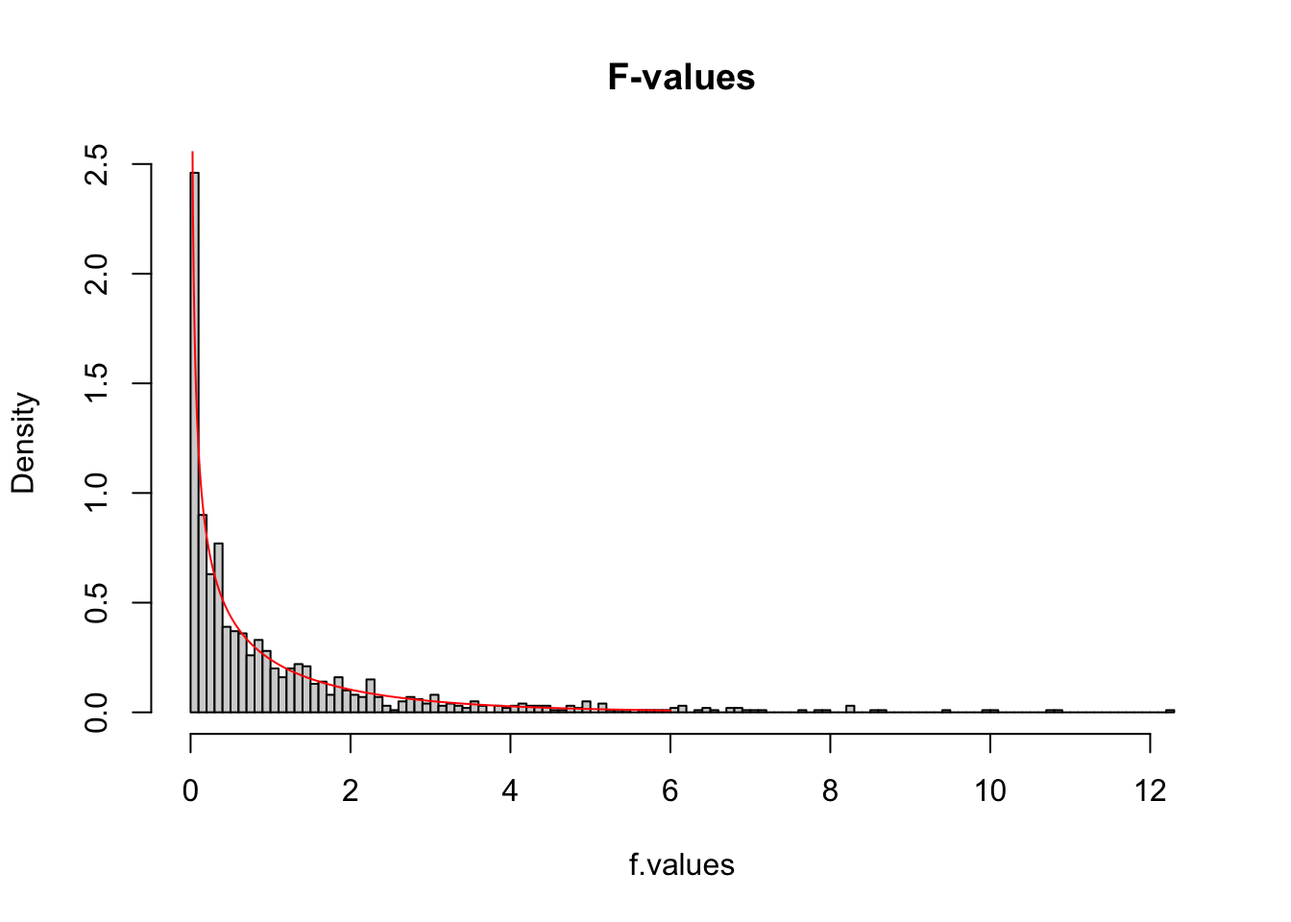
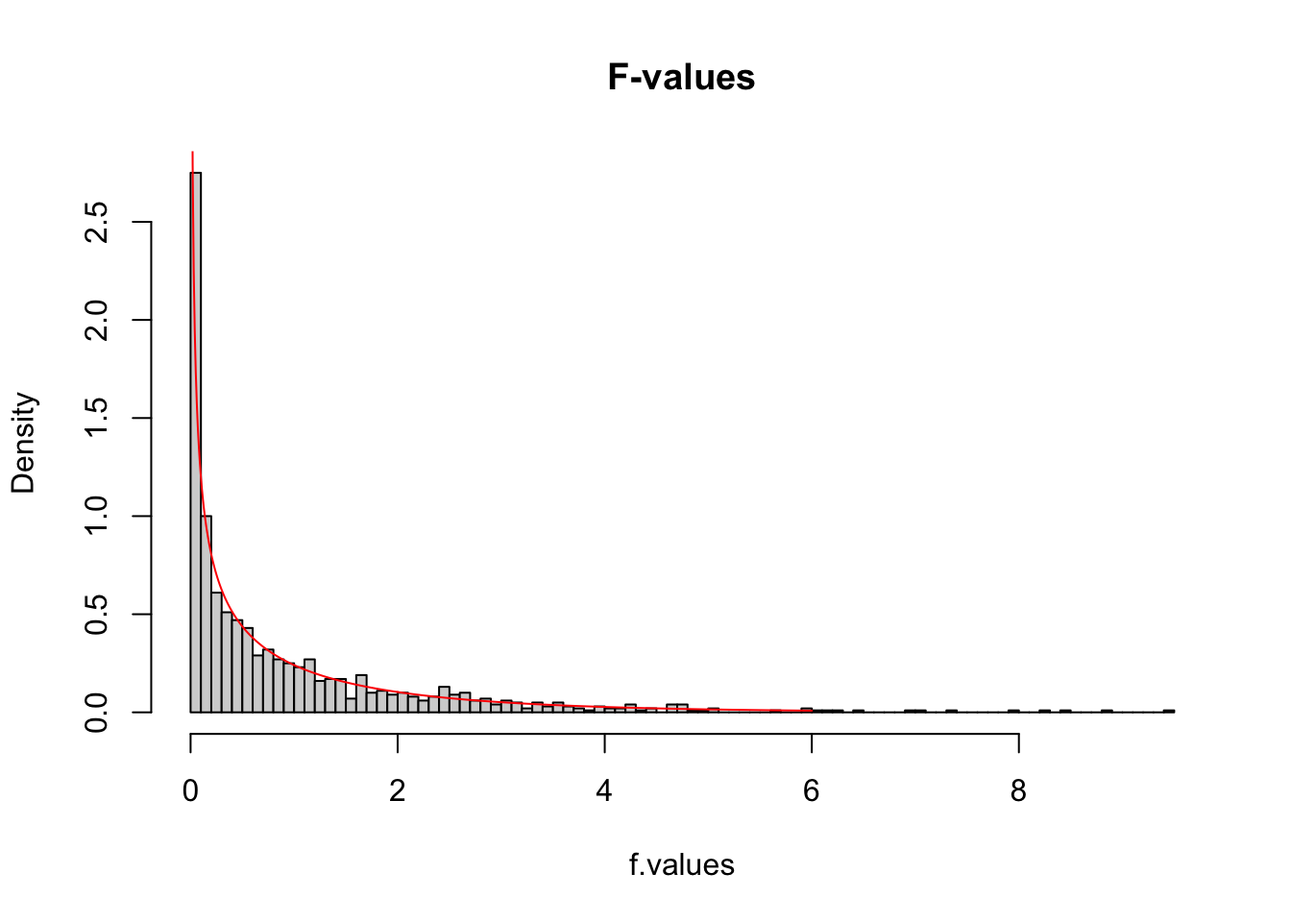
title corrected

diff --git a/courses/2020-2021_WSR_PB/f_distribution_ANOVA_non_par_testing/f_distribution_ANOVA_non_par_testing_reveal.html b/courses/2020-2021_WSR_PB/f_distribution_ANOVA_non_par_testing/f_distribution_ANOVA_non_par_testing_reveal.html
@@ -580,7 +580,7 @@ document.getElementsByTagName('head')[0].appendChild(style);
 
 <section>
     <h1 class="title">ANOVA</h1>
-  <h1 class="subtitle">F-distribution &amp; One-way independent</h1>
+  <h1 class="subtitle">F-distribution &amp; Non-parametric tests</h1>
     <h2 class="author">Klinkenberg</h2>
     <h3 class="date">30 sep 2020</h3>
 </section>
@@ -833,8 +833,8 @@ background: linear-gradient(top, #FFA500 40%, #FFA500 80%) no-repeat !important;
 <span id="cb12-2"><a href="#cb12-2"></a>data<span class="op">$</span>ranks =<span class="st"> </span><span class="kw">rank</span>(data<span class="op">$</span>depres)</span></code></pre></div>
 </section><section id="the-data" class="slide level2">
 <h2>The data</h2>
-<div id="htmlwidget-552c85f26f1aabdd099d" style="width:100%;height:auto;" class="datatables html-widget"></div>
-<script type="application/json" data-for="htmlwidget-552c85f26f1aabdd099d">{"x":{"filter":"none","data":[["1","2","3","4","5","6","7","8","9","10","11","12","13","14","15","16","17","18","19","20","21","22","23","24","25","26","27","28","29","30"],["ecstasy","ecstasy","ecstasy","ecstasy","ecstasy","ecstasy","ecstasy","ecstasy","ecstasy","ecstasy","alcohol","alcohol","alcohol","alcohol","alcohol","alcohol","alcohol","alcohol","alcohol","alcohol","control","control","control","control","control","control","control","control","control","control"],[22,22,24,25,21,24,21,23,21,23,27,23,24,24,21,26,23,24,23,24,23,22,21,22,22,25,22,22,22,23],[9.5,9.5,23.5,27.5,3,23.5,3,17,3,17,30,17,23.5,23.5,3,29,17,23.5,17,23.5,17,9.5,3,9.5,9.5,27.5,9.5,9.5,9.5,17]],"container":"<table class=\"display\">\n  <thead>\n    <tr>\n      <th> <\/th>\n      <th>factor<\/th>\n      <th>depres<\/th>\n      <th>ranks<\/th>\n    <\/tr>\n  <\/thead>\n<\/table>","options":{"iDisplayLength":7,"searching":false,"scrollY":415,"paging":[0,0.01,0.02,0.03,0.04,0.05,0.06,0.07,0.08,0.09,0.1,0.11,0.12,0.13,0.14,0.15,0.16,0.17,0.18,0.19,0.2,0.21,0.22,0.23,0.24,0.25,0.26,0.27,0.28,0.29,0.3,0.31,0.32,0.33,0.34,0.35,0.36,0.37,0.38,0.39,0.4,0.41,0.42,0.43,0.44,0.45,0.46,0.47,0.48,0.49,0.5,0.51,0.52,0.53,0.54,0.55,0.56,0.57,0.58,0.59,0.6,0.61,0.62,0.63,0.64,0.65,0.66,0.67,0.68,0.69,0.7,0.71,0.72,0.73,0.74,0.75,0.76,0.77,0.78,0.79,0.8,0.81,0.82,0.83,0.84,0.85,0.86,0.87,0.88,0.89,0.9,0.91,0.92,0.93,0.94,0.95,0.96,0.97,0.98,0.99,1,1.01,1.02,1.03,1.04,1.05,1.06,1.07,1.08,1.09,1.1,1.11,1.12,1.13,1.14,1.15,1.16,1.17,1.18,1.19,1.2,1.21,1.22,1.23,1.24,1.25,1.26,1.27,1.28,1.29,1.3,1.31,1.32,1.33,1.34,1.35,1.36,1.37,1.38,1.39,1.4,1.41,1.42,1.43,1.44,1.45,1.46,1.47,1.48,1.49,1.5,1.51,1.52,1.53,1.54,1.55,1.56,1.57,1.58,1.59,1.6,1.61,1.62,1.63,1.64,1.65,1.66,1.67,1.68,1.69,1.7,1.71,1.72,1.73,1.74,1.75,1.76,1.77,1.78,1.79,1.8,1.81,1.82,1.83,1.84,1.85,1.86,1.87,1.88,1.89,1.9,1.91,1.92,1.93,1.94,1.95,1.96,1.97,1.98,1.99,2,2.01,2.02,2.03,2.04,2.05,2.06,2.07,2.08,2.09,2.1,2.11,2.12,2.13,2.14,2.15,2.16,2.17,2.18,2.19,2.2,2.21,2.22,2.23,2.24,2.25,2.26,2.27,2.28,2.29,2.3,2.31,2.32,2.33,2.34,2.35,2.36,2.37,2.38,2.39,2.4,2.41,2.42,2.43,2.44,2.45,2.46,2.47,2.48,2.49,2.5,2.51,2.52,2.53,2.54,2.55,2.56,2.57,2.58,2.59,2.6,2.61,2.62,2.63,2.64,2.65,2.66,2.67,2.68,2.69,2.7,2.71,2.72,2.73,2.74,2.75,2.76,2.77,2.78,2.79,2.8,2.81,2.82,2.83,2.84,2.85,2.86,2.87,2.88,2.89,2.9,2.91,2.92,2.93,2.94,2.95,2.96,2.97,2.98,2.99,3,3.01,3.02,3.03,3.04,3.05,3.06,3.07,3.08,3.09,3.1,3.11,3.12,3.13,3.14,3.15,3.16,3.17,3.18,3.19,3.2,3.21,3.22,3.23,3.24,3.25,3.26,3.27,3.28,3.29,3.3,3.31,3.32,3.33,3.34,3.35,3.36,3.37,3.38,3.39,3.4,3.41,3.42,3.43,3.44,3.45,3.46,3.47,3.48,3.49,3.5,3.51,3.52,3.53,3.54,3.55,3.56,3.57,3.58,3.59,3.6,3.61,3.62,3.63,3.64,3.65,3.66,3.67,3.68,3.69,3.7,3.71,3.72,3.73,3.74,3.75,3.76,3.77,3.78,3.79,3.8,3.81,3.82,3.83,3.84,3.85,3.86,3.87,3.88,3.89,3.9,3.91,3.92,3.93,3.94,3.95,3.96,3.97,3.98,3.99,4,4.01,4.02,4.03,4.04,4.05,4.06,4.07,4.08,4.09,4.1,4.11,4.12,4.13,4.14,4.15,4.16,4.17,4.18,4.19,4.2,4.21,4.22,4.23,4.24,4.25,4.26,4.27,4.28,4.29,4.3,4.31,4.32,4.33,4.34,4.35,4.36,4.37,4.38,4.39,4.4,4.41,4.42,4.43,4.44,4.45,4.46,4.47,4.48,4.49,4.5,4.51,4.52,4.53,4.54,4.55,4.56,4.57,4.58,4.59,4.6,4.61,4.62,4.63,4.64,4.65,4.66,4.67,4.68,4.69,4.7,4.71,4.72,4.73,4.74,4.75,4.76,4.77,4.78,4.79,4.8,4.81,4.82,4.83,4.84,4.85,4.86,4.87,4.88,4.89,4.9,4.91,4.92,4.93,4.94,4.95,4.96,4.97,4.98,4.99,5,5.01,5.02,5.03,5.04,5.05,5.06,5.07,5.08,5.09,5.1,5.11,5.12,5.13,5.14,5.15,5.16,5.17,5.18,5.19,5.2,5.21,5.22,5.23,5.24,5.25,5.26,5.27,5.28,5.29,5.3,5.31,5.32,5.33,5.34,5.35,5.36,5.37,5.38,5.39,5.4,5.41,5.42,5.43,5.44,5.45,5.46,5.47,5.48,5.49,5.5,5.51,5.52,5.53,5.54,5.55,5.56,5.57,5.58,5.59,5.6,5.61,5.62,5.63,5.64,5.65,5.66,5.67,5.68,5.69,5.7,5.71,5.72,5.73,5.74,5.75,5.76,5.77,5.78,5.79,5.8,5.81,5.82,5.83,5.84,5.85,5.86,5.87,5.88,5.89,5.9,5.91,5.92,5.93,5.94,5.95,5.96,5.97,5.98,5.99,6,6.01,6.02,6.03,6.04,6.05,6.06,6.07,6.08,6.09,6.1,6.11,6.12,6.13,6.14,6.15,6.16,6.17,6.18,6.19,6.2,6.21,6.22,6.23,6.24,6.25,6.26,6.27,6.28,6.29,6.3,6.31,6.32,6.33,6.34,6.35,6.36,6.37,6.38,6.39,6.4,6.41,6.42,6.43,6.44,6.45,6.46,6.47,6.48,6.49,6.5,6.51,6.52,6.53,6.54,6.55,6.56,6.57,6.58,6.59,6.6,6.61,6.62,6.63,6.64,6.65,6.66,6.67,6.68,6.69,6.7,6.71,6.72,6.73,6.74,6.75,6.76,6.77,6.78,6.79,6.8,6.81,6.82,6.83,6.84,6.85,6.86,6.87,6.88,6.89,6.9,6.91,6.92,6.93,6.94,6.95,6.96,6.97,6.98,6.99,7,7.01,7.02,7.03,7.04,7.05,7.06,7.07,7.08,7.09,7.1,7.11,7.12,7.13,7.14,7.15,7.16,7.17,7.18,7.19,7.2,7.21,7.22,7.23,7.24,7.25,7.26,7.27,7.28,7.29,7.3,7.31,7.32,7.33,7.34,7.35,7.36,7.37,7.38,7.39,7.4,7.41,7.42,7.43,7.44,7.45,7.46,7.47,7.48,7.49,7.5,7.51,7.52,7.53,7.54,7.55,7.56,7.57,7.58,7.59,7.6,7.61,7.62,7.63,7.64,7.65,7.66,7.67,7.68,7.69,7.7,7.71,7.72,7.73,7.74,7.75,7.76,7.77,7.78,7.79,7.8,7.81,7.82,7.83,7.84,7.85,7.86,7.87,7.88,7.89,7.9,7.91,7.92,7.93,7.94,7.95,7.96,7.97,7.98,7.99,8,8.01,8.02,8.03,8.04,8.05,8.06,8.07,8.08,8.09,8.1,8.11,8.12,8.13,8.14,8.15,8.16,8.17,8.18,8.19,8.2,8.21,8.22,8.23,8.24,8.25,8.26,8.27,8.28,8.29,8.3,8.31,8.32,8.33,8.34,8.35,8.36,8.37,8.38,8.39,8.4,8.41,8.42,8.43,8.44,8.45,8.46,8.47,8.48,8.49,8.5,8.51,8.52,8.53,8.54,8.55,8.56,8.57,8.58,8.59,8.6,8.61,8.62,8.63,8.64,8.65,8.66,8.67,8.68,8.69,8.7,8.71,8.72,8.73,8.74,8.75,8.76,8.77,8.78,8.79,8.8,8.81,8.82,8.83,8.84,8.85,8.86,8.87,8.88,8.89,8.9,8.91,8.92,8.93,8.94,8.95,8.96,8.97,8.98,8.99,9,9.01,9.02,9.03,9.04,9.05,9.06,9.07,9.08,9.09,9.1,9.11,9.12,9.13,9.14,9.15,9.16,9.17,9.18,9.19,9.2,9.21,9.22,9.23,9.24,9.25,9.26,9.27,9.28,9.29,9.3,9.31,9.32,9.33,9.34,9.35,9.36,9.37,9.38,9.39,9.4,9.41,9.42,9.43,9.44,9.45,9.46,9.47,9.48,9.49,9.5,9.51,9.52,9.53,9.54,9.55,9.56,9.57,9.58,9.59,9.6,9.61,9.62,9.63,9.64,9.65,9.66,9.67,9.68,9.69,9.7,9.71,9.72,9.73,9.74,9.75,9.76,9.77,9.78,9.79,9.8,9.81,9.82,9.83,9.84,9.85,9.86,9.87,9.88,9.89,9.9,9.91,9.92,9.93,9.94,9.95,9.96,9.97,9.98,9.99,10],"info":[0,0.01,0.02,0.03,0.04,0.05,0.06,0.07,0.08,0.09,0.1,0.11,0.12,0.13,0.14,0.15,0.16,0.17,0.18,0.19,0.2,0.21,0.22,0.23,0.24,0.25,0.26,0.27,0.28,0.29,0.3,0.31,0.32,0.33,0.34,0.35,0.36,0.37,0.38,0.39,0.4,0.41,0.42,0.43,0.44,0.45,0.46,0.47,0.48,0.49,0.5,0.51,0.52,0.53,0.54,0.55,0.56,0.57,0.58,0.59,0.6,0.61,0.62,0.63,0.64,0.65,0.66,0.67,0.68,0.69,0.7,0.71,0.72,0.73,0.74,0.75,0.76,0.77,0.78,0.79,0.8,0.81,0.82,0.83,0.84,0.85,0.86,0.87,0.88,0.89,0.9,0.91,0.92,0.93,0.94,0.95,0.96,0.97,0.98,0.99,1,1.01,1.02,1.03,1.04,1.05,1.06,1.07,1.08,1.09,1.1,1.11,1.12,1.13,1.14,1.15,1.16,1.17,1.18,1.19,1.2,1.21,1.22,1.23,1.24,1.25,1.26,1.27,1.28,1.29,1.3,1.31,1.32,1.33,1.34,1.35,1.36,1.37,1.38,1.39,1.4,1.41,1.42,1.43,1.44,1.45,1.46,1.47,1.48,1.49,1.5,1.51,1.52,1.53,1.54,1.55,1.56,1.57,1.58,1.59,1.6,1.61,1.62,1.63,1.64,1.65,1.66,1.67,1.68,1.69,1.7,1.71,1.72,1.73,1.74,1.75,1.76,1.77,1.78,1.79,1.8,1.81,1.82,1.83,1.84,1.85,1.86,1.87,1.88,1.89,1.9,1.91,1.92,1.93,1.94,1.95,1.96,1.97,1.98,1.99,2,2.01,2.02,2.03,2.04,2.05,2.06,2.07,2.08,2.09,2.1,2.11,2.12,2.13,2.14,2.15,2.16,2.17,2.18,2.19,2.2,2.21,2.22,2.23,2.24,2.25,2.26,2.27,2.28,2.29,2.3,2.31,2.32,2.33,2.34,2.35,2.36,2.37,2.38,2.39,2.4,2.41,2.42,2.43,2.44,2.45,2.46,2.47,2.48,2.49,2.5,2.51,2.52,2.53,2.54,2.55,2.56,2.57,2.58,2.59,2.6,2.61,2.62,2.63,2.64,2.65,2.66,2.67,2.68,2.69,2.7,2.71,2.72,2.73,2.74,2.75,2.76,2.77,2.78,2.79,2.8,2.81,2.82,2.83,2.84,2.85,2.86,2.87,2.88,2.89,2.9,2.91,2.92,2.93,2.94,2.95,2.96,2.97,2.98,2.99,3,3.01,3.02,3.03,3.04,3.05,3.06,3.07,3.08,3.09,3.1,3.11,3.12,3.13,3.14,3.15,3.16,3.17,3.18,3.19,3.2,3.21,3.22,3.23,3.24,3.25,3.26,3.27,3.28,3.29,3.3,3.31,3.32,3.33,3.34,3.35,3.36,3.37,3.38,3.39,3.4,3.41,3.42,3.43,3.44,3.45,3.46,3.47,3.48,3.49,3.5,3.51,3.52,3.53,3.54,3.55,3.56,3.57,3.58,3.59,3.6,3.61,3.62,3.63,3.64,3.65,3.66,3.67,3.68,3.69,3.7,3.71,3.72,3.73,3.74,3.75,3.76,3.77,3.78,3.79,3.8,3.81,3.82,3.83,3.84,3.85,3.86,3.87,3.88,3.89,3.9,3.91,3.92,3.93,3.94,3.95,3.96,3.97,3.98,3.99,4,4.01,4.02,4.03,4.04,4.05,4.06,4.07,4.08,4.09,4.1,4.11,4.12,4.13,4.14,4.15,4.16,4.17,4.18,4.19,4.2,4.21,4.22,4.23,4.24,4.25,4.26,4.27,4.28,4.29,4.3,4.31,4.32,4.33,4.34,4.35,4.36,4.37,4.38,4.39,4.4,4.41,4.42,4.43,4.44,4.45,4.46,4.47,4.48,4.49,4.5,4.51,4.52,4.53,4.54,4.55,4.56,4.57,4.58,4.59,4.6,4.61,4.62,4.63,4.64,4.65,4.66,4.67,4.68,4.69,4.7,4.71,4.72,4.73,4.74,4.75,4.76,4.77,4.78,4.79,4.8,4.81,4.82,4.83,4.84,4.85,4.86,4.87,4.88,4.89,4.9,4.91,4.92,4.93,4.94,4.95,4.96,4.97,4.98,4.99,5,5.01,5.02,5.03,5.04,5.05,5.06,5.07,5.08,5.09,5.1,5.11,5.12,5.13,5.14,5.15,5.16,5.17,5.18,5.19,5.2,5.21,5.22,5.23,5.24,5.25,5.26,5.27,5.28,5.29,5.3,5.31,5.32,5.33,5.34,5.35,5.36,5.37,5.38,5.39,5.4,5.41,5.42,5.43,5.44,5.45,5.46,5.47,5.48,5.49,5.5,5.51,5.52,5.53,5.54,5.55,5.56,5.57,5.58,5.59,5.6,5.61,5.62,5.63,5.64,5.65,5.66,5.67,5.68,5.69,5.7,5.71,5.72,5.73,5.74,5.75,5.76,5.77,5.78,5.79,5.8,5.81,5.82,5.83,5.84,5.85,5.86,5.87,5.88,5.89,5.9,5.91,5.92,5.93,5.94,5.95,5.96,5.97,5.98,5.99,6,6.01,6.02,6.03,6.04,6.05,6.06,6.07,6.08,6.09,6.1,6.11,6.12,6.13,6.14,6.15,6.16,6.17,6.18,6.19,6.2,6.21,6.22,6.23,6.24,6.25,6.26,6.27,6.28,6.29,6.3,6.31,6.32,6.33,6.34,6.35,6.36,6.37,6.38,6.39,6.4,6.41,6.42,6.43,6.44,6.45,6.46,6.47,6.48,6.49,6.5,6.51,6.52,6.53,6.54,6.55,6.56,6.57,6.58,6.59,6.6,6.61,6.62,6.63,6.64,6.65,6.66,6.67,6.68,6.69,6.7,6.71,6.72,6.73,6.74,6.75,6.76,6.77,6.78,6.79,6.8,6.81,6.82,6.83,6.84,6.85,6.86,6.87,6.88,6.89,6.9,6.91,6.92,6.93,6.94,6.95,6.96,6.97,6.98,6.99,7,7.01,7.02,7.03,7.04,7.05,7.06,7.07,7.08,7.09,7.1,7.11,7.12,7.13,7.14,7.15,7.16,7.17,7.18,7.19,7.2,7.21,7.22,7.23,7.24,7.25,7.26,7.27,7.28,7.29,7.3,7.31,7.32,7.33,7.34,7.35,7.36,7.37,7.38,7.39,7.4,7.41,7.42,7.43,7.44,7.45,7.46,7.47,7.48,7.49,7.5,7.51,7.52,7.53,7.54,7.55,7.56,7.57,7.58,7.59,7.6,7.61,7.62,7.63,7.64,7.65,7.66,7.67,7.68,7.69,7.7,7.71,7.72,7.73,7.74,7.75,7.76,7.77,7.78,7.79,7.8,7.81,7.82,7.83,7.84,7.85,7.86,7.87,7.88,7.89,7.9,7.91,7.92,7.93,7.94,7.95,7.96,7.97,7.98,7.99,8,8.01,8.02,8.03,8.04,8.05,8.06,8.07,8.08,8.09,8.1,8.11,8.12,8.13,8.14,8.15,8.16,8.17,8.18,8.19,8.2,8.21,8.22,8.23,8.24,8.25,8.26,8.27,8.28,8.29,8.3,8.31,8.32,8.33,8.34,8.35,8.36,8.37,8.38,8.39,8.4,8.41,8.42,8.43,8.44,8.45,8.46,8.47,8.48,8.49,8.5,8.51,8.52,8.53,8.54,8.55,8.56,8.57,8.58,8.59,8.6,8.61,8.62,8.63,8.64,8.65,8.66,8.67,8.68,8.69,8.7,8.71,8.72,8.73,8.74,8.75,8.76,8.77,8.78,8.79,8.8,8.81,8.82,8.83,8.84,8.85,8.86,8.87,8.88,8.89,8.9,8.91,8.92,8.93,8.94,8.95,8.96,8.97,8.98,8.99,9,9.01,9.02,9.03,9.04,9.05,9.06,9.07,9.08,9.09,9.1,9.11,9.12,9.13,9.14,9.15,9.16,9.17,9.18,9.19,9.2,9.21,9.22,9.23,9.24,9.25,9.26,9.27,9.28,9.29,9.3,9.31,9.32,9.33,9.34,9.35,9.36,9.37,9.38,9.39,9.4,9.41,9.42,9.43,9.44,9.45,9.46,9.47,9.48,9.49,9.5,9.51,9.52,9.53,9.54,9.55,9.56,9.57,9.58,9.59,9.6,9.61,9.62,9.63,9.64,9.65,9.66,9.67,9.68,9.69,9.7,9.71,9.72,9.73,9.74,9.75,9.76,9.77,9.78,9.79,9.8,9.81,9.82,9.83,9.84,9.85,9.86,9.87,9.88,9.89,9.9,9.91,9.92,9.93,9.94,9.95,9.96,9.97,9.98,9.99,10],"columnDefs":[{"className":"dt-right","targets":[2,3]},{"orderable":false,"targets":0}],"order":[],"autoWidth":false,"orderClasses":false}},"evals":[],"jsHooks":[]}</script>
+<div id="htmlwidget-ece20a5050a8a65ae7e8" style="width:100%;height:auto;" class="datatables html-widget"></div>
+<script type="application/json" data-for="htmlwidget-ece20a5050a8a65ae7e8">{"x":{"filter":"none","data":[["1","2","3","4","5","6","7","8","9","10","11","12","13","14","15","16","17","18","19","20","21","22","23","24","25","26","27","28","29","30"],["ecstasy","ecstasy","ecstasy","ecstasy","ecstasy","ecstasy","ecstasy","ecstasy","ecstasy","ecstasy","alcohol","alcohol","alcohol","alcohol","alcohol","alcohol","alcohol","alcohol","alcohol","alcohol","control","control","control","control","control","control","control","control","control","control"],[22,22,24,25,21,24,21,23,21,23,27,23,24,24,21,26,23,24,23,24,23,22,21,22,22,25,22,22,22,23],[9.5,9.5,23.5,27.5,3,23.5,3,17,3,17,30,17,23.5,23.5,3,29,17,23.5,17,23.5,17,9.5,3,9.5,9.5,27.5,9.5,9.5,9.5,17]],"container":"<table class=\"display\">\n  <thead>\n    <tr>\n      <th> <\/th>\n      <th>factor<\/th>\n      <th>depres<\/th>\n      <th>ranks<\/th>\n    <\/tr>\n  <\/thead>\n<\/table>","options":{"iDisplayLength":7,"searching":false,"scrollY":415,"paging":[0,0.01,0.02,0.03,0.04,0.05,0.06,0.07,0.08,0.09,0.1,0.11,0.12,0.13,0.14,0.15,0.16,0.17,0.18,0.19,0.2,0.21,0.22,0.23,0.24,0.25,0.26,0.27,0.28,0.29,0.3,0.31,0.32,0.33,0.34,0.35,0.36,0.37,0.38,0.39,0.4,0.41,0.42,0.43,0.44,0.45,0.46,0.47,0.48,0.49,0.5,0.51,0.52,0.53,0.54,0.55,0.56,0.57,0.58,0.59,0.6,0.61,0.62,0.63,0.64,0.65,0.66,0.67,0.68,0.69,0.7,0.71,0.72,0.73,0.74,0.75,0.76,0.77,0.78,0.79,0.8,0.81,0.82,0.83,0.84,0.85,0.86,0.87,0.88,0.89,0.9,0.91,0.92,0.93,0.94,0.95,0.96,0.97,0.98,0.99,1,1.01,1.02,1.03,1.04,1.05,1.06,1.07,1.08,1.09,1.1,1.11,1.12,1.13,1.14,1.15,1.16,1.17,1.18,1.19,1.2,1.21,1.22,1.23,1.24,1.25,1.26,1.27,1.28,1.29,1.3,1.31,1.32,1.33,1.34,1.35,1.36,1.37,1.38,1.39,1.4,1.41,1.42,1.43,1.44,1.45,1.46,1.47,1.48,1.49,1.5,1.51,1.52,1.53,1.54,1.55,1.56,1.57,1.58,1.59,1.6,1.61,1.62,1.63,1.64,1.65,1.66,1.67,1.68,1.69,1.7,1.71,1.72,1.73,1.74,1.75,1.76,1.77,1.78,1.79,1.8,1.81,1.82,1.83,1.84,1.85,1.86,1.87,1.88,1.89,1.9,1.91,1.92,1.93,1.94,1.95,1.96,1.97,1.98,1.99,2,2.01,2.02,2.03,2.04,2.05,2.06,2.07,2.08,2.09,2.1,2.11,2.12,2.13,2.14,2.15,2.16,2.17,2.18,2.19,2.2,2.21,2.22,2.23,2.24,2.25,2.26,2.27,2.28,2.29,2.3,2.31,2.32,2.33,2.34,2.35,2.36,2.37,2.38,2.39,2.4,2.41,2.42,2.43,2.44,2.45,2.46,2.47,2.48,2.49,2.5,2.51,2.52,2.53,2.54,2.55,2.56,2.57,2.58,2.59,2.6,2.61,2.62,2.63,2.64,2.65,2.66,2.67,2.68,2.69,2.7,2.71,2.72,2.73,2.74,2.75,2.76,2.77,2.78,2.79,2.8,2.81,2.82,2.83,2.84,2.85,2.86,2.87,2.88,2.89,2.9,2.91,2.92,2.93,2.94,2.95,2.96,2.97,2.98,2.99,3,3.01,3.02,3.03,3.04,3.05,3.06,3.07,3.08,3.09,3.1,3.11,3.12,3.13,3.14,3.15,3.16,3.17,3.18,3.19,3.2,3.21,3.22,3.23,3.24,3.25,3.26,3.27,3.28,3.29,3.3,3.31,3.32,3.33,3.34,3.35,3.36,3.37,3.38,3.39,3.4,3.41,3.42,3.43,3.44,3.45,3.46,3.47,3.48,3.49,3.5,3.51,3.52,3.53,3.54,3.55,3.56,3.57,3.58,3.59,3.6,3.61,3.62,3.63,3.64,3.65,3.66,3.67,3.68,3.69,3.7,3.71,3.72,3.73,3.74,3.75,3.76,3.77,3.78,3.79,3.8,3.81,3.82,3.83,3.84,3.85,3.86,3.87,3.88,3.89,3.9,3.91,3.92,3.93,3.94,3.95,3.96,3.97,3.98,3.99,4,4.01,4.02,4.03,4.04,4.05,4.06,4.07,4.08,4.09,4.1,4.11,4.12,4.13,4.14,4.15,4.16,4.17,4.18,4.19,4.2,4.21,4.22,4.23,4.24,4.25,4.26,4.27,4.28,4.29,4.3,4.31,4.32,4.33,4.34,4.35,4.36,4.37,4.38,4.39,4.4,4.41,4.42,4.43,4.44,4.45,4.46,4.47,4.48,4.49,4.5,4.51,4.52,4.53,4.54,4.55,4.56,4.57,4.58,4.59,4.6,4.61,4.62,4.63,4.64,4.65,4.66,4.67,4.68,4.69,4.7,4.71,4.72,4.73,4.74,4.75,4.76,4.77,4.78,4.79,4.8,4.81,4.82,4.83,4.84,4.85,4.86,4.87,4.88,4.89,4.9,4.91,4.92,4.93,4.94,4.95,4.96,4.97,4.98,4.99,5,5.01,5.02,5.03,5.04,5.05,5.06,5.07,5.08,5.09,5.1,5.11,5.12,5.13,5.14,5.15,5.16,5.17,5.18,5.19,5.2,5.21,5.22,5.23,5.24,5.25,5.26,5.27,5.28,5.29,5.3,5.31,5.32,5.33,5.34,5.35,5.36,5.37,5.38,5.39,5.4,5.41,5.42,5.43,5.44,5.45,5.46,5.47,5.48,5.49,5.5,5.51,5.52,5.53,5.54,5.55,5.56,5.57,5.58,5.59,5.6,5.61,5.62,5.63,5.64,5.65,5.66,5.67,5.68,5.69,5.7,5.71,5.72,5.73,5.74,5.75,5.76,5.77,5.78,5.79,5.8,5.81,5.82,5.83,5.84,5.85,5.86,5.87,5.88,5.89,5.9,5.91,5.92,5.93,5.94,5.95,5.96,5.97,5.98,5.99,6,6.01,6.02,6.03,6.04,6.05,6.06,6.07,6.08,6.09,6.1,6.11,6.12,6.13,6.14,6.15,6.16,6.17,6.18,6.19,6.2,6.21,6.22,6.23,6.24,6.25,6.26,6.27,6.28,6.29,6.3,6.31,6.32,6.33,6.34,6.35,6.36,6.37,6.38,6.39,6.4,6.41,6.42,6.43,6.44,6.45,6.46,6.47,6.48,6.49,6.5,6.51,6.52,6.53,6.54,6.55,6.56,6.57,6.58,6.59,6.6,6.61,6.62,6.63,6.64,6.65,6.66,6.67,6.68,6.69,6.7,6.71,6.72,6.73,6.74,6.75,6.76,6.77,6.78,6.79,6.8,6.81,6.82,6.83,6.84,6.85,6.86,6.87,6.88,6.89,6.9,6.91,6.92,6.93,6.94,6.95,6.96,6.97,6.98,6.99,7,7.01,7.02,7.03,7.04,7.05,7.06,7.07,7.08,7.09,7.1,7.11,7.12,7.13,7.14,7.15,7.16,7.17,7.18,7.19,7.2,7.21,7.22,7.23,7.24,7.25,7.26,7.27,7.28,7.29,7.3,7.31,7.32,7.33,7.34,7.35,7.36,7.37,7.38,7.39,7.4,7.41,7.42,7.43,7.44,7.45,7.46,7.47,7.48,7.49,7.5,7.51,7.52,7.53,7.54,7.55,7.56,7.57,7.58,7.59,7.6,7.61,7.62,7.63,7.64,7.65,7.66,7.67,7.68,7.69,7.7,7.71,7.72,7.73,7.74,7.75,7.76,7.77,7.78,7.79,7.8,7.81,7.82,7.83,7.84,7.85,7.86,7.87,7.88,7.89,7.9,7.91,7.92,7.93,7.94,7.95,7.96,7.97,7.98,7.99,8,8.01,8.02,8.03,8.04,8.05,8.06,8.07,8.08,8.09,8.1,8.11,8.12,8.13,8.14,8.15,8.16,8.17,8.18,8.19,8.2,8.21,8.22,8.23,8.24,8.25,8.26,8.27,8.28,8.29,8.3,8.31,8.32,8.33,8.34,8.35,8.36,8.37,8.38,8.39,8.4,8.41,8.42,8.43,8.44,8.45,8.46,8.47,8.48,8.49,8.5,8.51,8.52,8.53,8.54,8.55,8.56,8.57,8.58,8.59,8.6,8.61,8.62,8.63,8.64,8.65,8.66,8.67,8.68,8.69,8.7,8.71,8.72,8.73,8.74,8.75,8.76,8.77,8.78,8.79,8.8,8.81,8.82,8.83,8.84,8.85,8.86,8.87,8.88,8.89,8.9,8.91,8.92,8.93,8.94,8.95,8.96,8.97,8.98,8.99,9,9.01,9.02,9.03,9.04,9.05,9.06,9.07,9.08,9.09,9.1,9.11,9.12,9.13,9.14,9.15,9.16,9.17,9.18,9.19,9.2,9.21,9.22,9.23,9.24,9.25,9.26,9.27,9.28,9.29,9.3,9.31,9.32,9.33,9.34,9.35,9.36,9.37,9.38,9.39,9.4,9.41,9.42,9.43,9.44,9.45,9.46,9.47,9.48,9.49,9.5,9.51,9.52,9.53,9.54,9.55,9.56,9.57,9.58,9.59,9.6,9.61,9.62,9.63,9.64,9.65,9.66,9.67,9.68,9.69,9.7,9.71,9.72,9.73,9.74,9.75,9.76,9.77,9.78,9.79,9.8,9.81,9.82,9.83,9.84,9.85,9.86,9.87,9.88,9.89,9.9,9.91,9.92,9.93,9.94,9.95,9.96,9.97,9.98,9.99,10],"info":[0,0.01,0.02,0.03,0.04,0.05,0.06,0.07,0.08,0.09,0.1,0.11,0.12,0.13,0.14,0.15,0.16,0.17,0.18,0.19,0.2,0.21,0.22,0.23,0.24,0.25,0.26,0.27,0.28,0.29,0.3,0.31,0.32,0.33,0.34,0.35,0.36,0.37,0.38,0.39,0.4,0.41,0.42,0.43,0.44,0.45,0.46,0.47,0.48,0.49,0.5,0.51,0.52,0.53,0.54,0.55,0.56,0.57,0.58,0.59,0.6,0.61,0.62,0.63,0.64,0.65,0.66,0.67,0.68,0.69,0.7,0.71,0.72,0.73,0.74,0.75,0.76,0.77,0.78,0.79,0.8,0.81,0.82,0.83,0.84,0.85,0.86,0.87,0.88,0.89,0.9,0.91,0.92,0.93,0.94,0.95,0.96,0.97,0.98,0.99,1,1.01,1.02,1.03,1.04,1.05,1.06,1.07,1.08,1.09,1.1,1.11,1.12,1.13,1.14,1.15,1.16,1.17,1.18,1.19,1.2,1.21,1.22,1.23,1.24,1.25,1.26,1.27,1.28,1.29,1.3,1.31,1.32,1.33,1.34,1.35,1.36,1.37,1.38,1.39,1.4,1.41,1.42,1.43,1.44,1.45,1.46,1.47,1.48,1.49,1.5,1.51,1.52,1.53,1.54,1.55,1.56,1.57,1.58,1.59,1.6,1.61,1.62,1.63,1.64,1.65,1.66,1.67,1.68,1.69,1.7,1.71,1.72,1.73,1.74,1.75,1.76,1.77,1.78,1.79,1.8,1.81,1.82,1.83,1.84,1.85,1.86,1.87,1.88,1.89,1.9,1.91,1.92,1.93,1.94,1.95,1.96,1.97,1.98,1.99,2,2.01,2.02,2.03,2.04,2.05,2.06,2.07,2.08,2.09,2.1,2.11,2.12,2.13,2.14,2.15,2.16,2.17,2.18,2.19,2.2,2.21,2.22,2.23,2.24,2.25,2.26,2.27,2.28,2.29,2.3,2.31,2.32,2.33,2.34,2.35,2.36,2.37,2.38,2.39,2.4,2.41,2.42,2.43,2.44,2.45,2.46,2.47,2.48,2.49,2.5,2.51,2.52,2.53,2.54,2.55,2.56,2.57,2.58,2.59,2.6,2.61,2.62,2.63,2.64,2.65,2.66,2.67,2.68,2.69,2.7,2.71,2.72,2.73,2.74,2.75,2.76,2.77,2.78,2.79,2.8,2.81,2.82,2.83,2.84,2.85,2.86,2.87,2.88,2.89,2.9,2.91,2.92,2.93,2.94,2.95,2.96,2.97,2.98,2.99,3,3.01,3.02,3.03,3.04,3.05,3.06,3.07,3.08,3.09,3.1,3.11,3.12,3.13,3.14,3.15,3.16,3.17,3.18,3.19,3.2,3.21,3.22,3.23,3.24,3.25,3.26,3.27,3.28,3.29,3.3,3.31,3.32,3.33,3.34,3.35,3.36,3.37,3.38,3.39,3.4,3.41,3.42,3.43,3.44,3.45,3.46,3.47,3.48,3.49,3.5,3.51,3.52,3.53,3.54,3.55,3.56,3.57,3.58,3.59,3.6,3.61,3.62,3.63,3.64,3.65,3.66,3.67,3.68,3.69,3.7,3.71,3.72,3.73,3.74,3.75,3.76,3.77,3.78,3.79,3.8,3.81,3.82,3.83,3.84,3.85,3.86,3.87,3.88,3.89,3.9,3.91,3.92,3.93,3.94,3.95,3.96,3.97,3.98,3.99,4,4.01,4.02,4.03,4.04,4.05,4.06,4.07,4.08,4.09,4.1,4.11,4.12,4.13,4.14,4.15,4.16,4.17,4.18,4.19,4.2,4.21,4.22,4.23,4.24,4.25,4.26,4.27,4.28,4.29,4.3,4.31,4.32,4.33,4.34,4.35,4.36,4.37,4.38,4.39,4.4,4.41,4.42,4.43,4.44,4.45,4.46,4.47,4.48,4.49,4.5,4.51,4.52,4.53,4.54,4.55,4.56,4.57,4.58,4.59,4.6,4.61,4.62,4.63,4.64,4.65,4.66,4.67,4.68,4.69,4.7,4.71,4.72,4.73,4.74,4.75,4.76,4.77,4.78,4.79,4.8,4.81,4.82,4.83,4.84,4.85,4.86,4.87,4.88,4.89,4.9,4.91,4.92,4.93,4.94,4.95,4.96,4.97,4.98,4.99,5,5.01,5.02,5.03,5.04,5.05,5.06,5.07,5.08,5.09,5.1,5.11,5.12,5.13,5.14,5.15,5.16,5.17,5.18,5.19,5.2,5.21,5.22,5.23,5.24,5.25,5.26,5.27,5.28,5.29,5.3,5.31,5.32,5.33,5.34,5.35,5.36,5.37,5.38,5.39,5.4,5.41,5.42,5.43,5.44,5.45,5.46,5.47,5.48,5.49,5.5,5.51,5.52,5.53,5.54,5.55,5.56,5.57,5.58,5.59,5.6,5.61,5.62,5.63,5.64,5.65,5.66,5.67,5.68,5.69,5.7,5.71,5.72,5.73,5.74,5.75,5.76,5.77,5.78,5.79,5.8,5.81,5.82,5.83,5.84,5.85,5.86,5.87,5.88,5.89,5.9,5.91,5.92,5.93,5.94,5.95,5.96,5.97,5.98,5.99,6,6.01,6.02,6.03,6.04,6.05,6.06,6.07,6.08,6.09,6.1,6.11,6.12,6.13,6.14,6.15,6.16,6.17,6.18,6.19,6.2,6.21,6.22,6.23,6.24,6.25,6.26,6.27,6.28,6.29,6.3,6.31,6.32,6.33,6.34,6.35,6.36,6.37,6.38,6.39,6.4,6.41,6.42,6.43,6.44,6.45,6.46,6.47,6.48,6.49,6.5,6.51,6.52,6.53,6.54,6.55,6.56,6.57,6.58,6.59,6.6,6.61,6.62,6.63,6.64,6.65,6.66,6.67,6.68,6.69,6.7,6.71,6.72,6.73,6.74,6.75,6.76,6.77,6.78,6.79,6.8,6.81,6.82,6.83,6.84,6.85,6.86,6.87,6.88,6.89,6.9,6.91,6.92,6.93,6.94,6.95,6.96,6.97,6.98,6.99,7,7.01,7.02,7.03,7.04,7.05,7.06,7.07,7.08,7.09,7.1,7.11,7.12,7.13,7.14,7.15,7.16,7.17,7.18,7.19,7.2,7.21,7.22,7.23,7.24,7.25,7.26,7.27,7.28,7.29,7.3,7.31,7.32,7.33,7.34,7.35,7.36,7.37,7.38,7.39,7.4,7.41,7.42,7.43,7.44,7.45,7.46,7.47,7.48,7.49,7.5,7.51,7.52,7.53,7.54,7.55,7.56,7.57,7.58,7.59,7.6,7.61,7.62,7.63,7.64,7.65,7.66,7.67,7.68,7.69,7.7,7.71,7.72,7.73,7.74,7.75,7.76,7.77,7.78,7.79,7.8,7.81,7.82,7.83,7.84,7.85,7.86,7.87,7.88,7.89,7.9,7.91,7.92,7.93,7.94,7.95,7.96,7.97,7.98,7.99,8,8.01,8.02,8.03,8.04,8.05,8.06,8.07,8.08,8.09,8.1,8.11,8.12,8.13,8.14,8.15,8.16,8.17,8.18,8.19,8.2,8.21,8.22,8.23,8.24,8.25,8.26,8.27,8.28,8.29,8.3,8.31,8.32,8.33,8.34,8.35,8.36,8.37,8.38,8.39,8.4,8.41,8.42,8.43,8.44,8.45,8.46,8.47,8.48,8.49,8.5,8.51,8.52,8.53,8.54,8.55,8.56,8.57,8.58,8.59,8.6,8.61,8.62,8.63,8.64,8.65,8.66,8.67,8.68,8.69,8.7,8.71,8.72,8.73,8.74,8.75,8.76,8.77,8.78,8.79,8.8,8.81,8.82,8.83,8.84,8.85,8.86,8.87,8.88,8.89,8.9,8.91,8.92,8.93,8.94,8.95,8.96,8.97,8.98,8.99,9,9.01,9.02,9.03,9.04,9.05,9.06,9.07,9.08,9.09,9.1,9.11,9.12,9.13,9.14,9.15,9.16,9.17,9.18,9.19,9.2,9.21,9.22,9.23,9.24,9.25,9.26,9.27,9.28,9.29,9.3,9.31,9.32,9.33,9.34,9.35,9.36,9.37,9.38,9.39,9.4,9.41,9.42,9.43,9.44,9.45,9.46,9.47,9.48,9.49,9.5,9.51,9.52,9.53,9.54,9.55,9.56,9.57,9.58,9.59,9.6,9.61,9.62,9.63,9.64,9.65,9.66,9.67,9.68,9.69,9.7,9.71,9.72,9.73,9.74,9.75,9.76,9.77,9.78,9.79,9.8,9.81,9.82,9.83,9.84,9.85,9.86,9.87,9.88,9.89,9.9,9.91,9.92,9.93,9.94,9.95,9.96,9.97,9.98,9.99,10],"columnDefs":[{"className":"dt-right","targets":[2,3]},{"orderable":false,"targets":0}],"order":[],"autoWidth":false,"orderClasses":false}},"evals":[],"jsHooks":[]}</script>
 </section><section id="calculate-h" class="slide level2 subsection">
 <h2>Calculate H</h2>
 <p><span class="math display">\[H = \frac{12}{N(N+1)} \sum_{i=1}^k \frac{R_i^2}{n_i} - 3(N+1)\]</span></p>

diff --git a/courses/2020-2021_WSR_PB/f_distribution_ANOVA_non_par_testing/f_distribution_ANOVA_non_par_testing_handout.html b/courses/2020-2021_WSR_PB/f_distribution_ANOVA_non_par_testing/f_distribution_ANOVA_non_par_testing_handout.html
@@ -278,7 +278,7 @@ div.tocify {
 
 
 <h1 class="title toc-ignore">ANOVA</h1>
-<h3 class="subtitle">F-distribution &amp; One-way independent</h3>
+<h3 class="subtitle">F-distribution &amp; Non-parametric tests</h3>
 <h4 class="author">Klinkenberg</h4>
 <h4 class="date">30 sep 2020</h4>
 
@@ -349,7 +349,7 @@ data &lt;- data.frame(group = rep(c(&quot;s1&quot;, &quot;s2&quot;), each=n), sc
     
 F = summary(aov(lm(score ~ group, data)))[[1]]$F[1]
 F</code></pre>
-<pre><code>## [1] 0.3441866</code></pre>
+<pre><code>## [1] 1.802261</code></pre>
 </div>
 <div id="more-samples" class="section level2 smaller subsection">
 <h2>More samples</h2>
@@ -552,8 +552,8 @@ data$ranks = rank(data$depres)</code></pre>
 </div>
 <div id="the-data" class="section level2">
 <h2>The data</h2>
-<div id="htmlwidget-6caf066f1af02afe8887" style="width:100%;height:auto;" class="datatables html-widget"></div>
-<script type="application/json" data-for="htmlwidget-6caf066f1af02afe8887">{"x":{"filter":"none","data":[["1","2","3","4","5","6","7","8","9","10","11","12","13","14","15","16","17","18","19","20","21","22","23","24","25","26","27","28","29","30"],["ecstasy","ecstasy","ecstasy","ecstasy","ecstasy","ecstasy","ecstasy","ecstasy","ecstasy","ecstasy","alcohol","alcohol","alcohol","alcohol","alcohol","alcohol","alcohol","alcohol","alcohol","alcohol","control","control","control","control","control","control","control","control","control","control"],[22,22,24,25,21,24,21,23,21,23,27,23,24,24,21,26,23,24,23,24,23,22,21,22,22,25,22,22,22,23],[9.5,9.5,23.5,27.5,3,23.5,3,17,3,17,30,17,23.5,23.5,3,29,17,23.5,17,23.5,17,9.5,3,9.5,9.5,27.5,9.5,9.5,9.5,17]],"container":"<table class=\"display\">\n  <thead>\n    <tr>\n      <th> <\/th>\n      <th>factor<\/th>\n      <th>depres<\/th>\n      <th>ranks<\/th>\n    <\/tr>\n  <\/thead>\n<\/table>","options":{"iDisplayLength":7,"searching":false,"scrollY":415,"paging":[0,0.01,0.02,0.03,0.04,0.05,0.06,0.07,0.08,0.09,0.1,0.11,0.12,0.13,0.14,0.15,0.16,0.17,0.18,0.19,0.2,0.21,0.22,0.23,0.24,0.25,0.26,0.27,0.28,0.29,0.3,0.31,0.32,0.33,0.34,0.35,0.36,0.37,0.38,0.39,0.4,0.41,0.42,0.43,0.44,0.45,0.46,0.47,0.48,0.49,0.5,0.51,0.52,0.53,0.54,0.55,0.56,0.57,0.58,0.59,0.6,0.61,0.62,0.63,0.64,0.65,0.66,0.67,0.68,0.69,0.7,0.71,0.72,0.73,0.74,0.75,0.76,0.77,0.78,0.79,0.8,0.81,0.82,0.83,0.84,0.85,0.86,0.87,0.88,0.89,0.9,0.91,0.92,0.93,0.94,0.95,0.96,0.97,0.98,0.99,1,1.01,1.02,1.03,1.04,1.05,1.06,1.07,1.08,1.09,1.1,1.11,1.12,1.13,1.14,1.15,1.16,1.17,1.18,1.19,1.2,1.21,1.22,1.23,1.24,1.25,1.26,1.27,1.28,1.29,1.3,1.31,1.32,1.33,1.34,1.35,1.36,1.37,1.38,1.39,1.4,1.41,1.42,1.43,1.44,1.45,1.46,1.47,1.48,1.49,1.5,1.51,1.52,1.53,1.54,1.55,1.56,1.57,1.58,1.59,1.6,1.61,1.62,1.63,1.64,1.65,1.66,1.67,1.68,1.69,1.7,1.71,1.72,1.73,1.74,1.75,1.76,1.77,1.78,1.79,1.8,1.81,1.82,1.83,1.84,1.85,1.86,1.87,1.88,1.89,1.9,1.91,1.92,1.93,1.94,1.95,1.96,1.97,1.98,1.99,2,2.01,2.02,2.03,2.04,2.05,2.06,2.07,2.08,2.09,2.1,2.11,2.12,2.13,2.14,2.15,2.16,2.17,2.18,2.19,2.2,2.21,2.22,2.23,2.24,2.25,2.26,2.27,2.28,2.29,2.3,2.31,2.32,2.33,2.34,2.35,2.36,2.37,2.38,2.39,2.4,2.41,2.42,2.43,2.44,2.45,2.46,2.47,2.48,2.49,2.5,2.51,2.52,2.53,2.54,2.55,2.56,2.57,2.58,2.59,2.6,2.61,2.62,2.63,2.64,2.65,2.66,2.67,2.68,2.69,2.7,2.71,2.72,2.73,2.74,2.75,2.76,2.77,2.78,2.79,2.8,2.81,2.82,2.83,2.84,2.85,2.86,2.87,2.88,2.89,2.9,2.91,2.92,2.93,2.94,2.95,2.96,2.97,2.98,2.99,3,3.01,3.02,3.03,3.04,3.05,3.06,3.07,3.08,3.09,3.1,3.11,3.12,3.13,3.14,3.15,3.16,3.17,3.18,3.19,3.2,3.21,3.22,3.23,3.24,3.25,3.26,3.27,3.28,3.29,3.3,3.31,3.32,3.33,3.34,3.35,3.36,3.37,3.38,3.39,3.4,3.41,3.42,3.43,3.44,3.45,3.46,3.47,3.48,3.49,3.5,3.51,3.52,3.53,3.54,3.55,3.56,3.57,3.58,3.59,3.6,3.61,3.62,3.63,3.64,3.65,3.66,3.67,3.68,3.69,3.7,3.71,3.72,3.73,3.74,3.75,3.76,3.77,3.78,3.79,3.8,3.81,3.82,3.83,3.84,3.85,3.86,3.87,3.88,3.89,3.9,3.91,3.92,3.93,3.94,3.95,3.96,3.97,3.98,3.99,4,4.01,4.02,4.03,4.04,4.05,4.06,4.07,4.08,4.09,4.1,4.11,4.12,4.13,4.14,4.15,4.16,4.17,4.18,4.19,4.2,4.21,4.22,4.23,4.24,4.25,4.26,4.27,4.28,4.29,4.3,4.31,4.32,4.33,4.34,4.35,4.36,4.37,4.38,4.39,4.4,4.41,4.42,4.43,4.44,4.45,4.46,4.47,4.48,4.49,4.5,4.51,4.52,4.53,4.54,4.55,4.56,4.57,4.58,4.59,4.6,4.61,4.62,4.63,4.64,4.65,4.66,4.67,4.68,4.69,4.7,4.71,4.72,4.73,4.74,4.75,4.76,4.77,4.78,4.79,4.8,4.81,4.82,4.83,4.84,4.85,4.86,4.87,4.88,4.89,4.9,4.91,4.92,4.93,4.94,4.95,4.96,4.97,4.98,4.99,5,5.01,5.02,5.03,5.04,5.05,5.06,5.07,5.08,5.09,5.1,5.11,5.12,5.13,5.14,5.15,5.16,5.17,5.18,5.19,5.2,5.21,5.22,5.23,5.24,5.25,5.26,5.27,5.28,5.29,5.3,5.31,5.32,5.33,5.34,5.35,5.36,5.37,5.38,5.39,5.4,5.41,5.42,5.43,5.44,5.45,5.46,5.47,5.48,5.49,5.5,5.51,5.52,5.53,5.54,5.55,5.56,5.57,5.58,5.59,5.6,5.61,5.62,5.63,5.64,5.65,5.66,5.67,5.68,5.69,5.7,5.71,5.72,5.73,5.74,5.75,5.76,5.77,5.78,5.79,5.8,5.81,5.82,5.83,5.84,5.85,5.86,5.87,5.88,5.89,5.9,5.91,5.92,5.93,5.94,5.95,5.96,5.97,5.98,5.99,6,6.01,6.02,6.03,6.04,6.05,6.06,6.07,6.08,6.09,6.1,6.11,6.12,6.13,6.14,6.15,6.16,6.17,6.18,6.19,6.2,6.21,6.22,6.23,6.24,6.25,6.26,6.27,6.28,6.29,6.3,6.31,6.32,6.33,6.34,6.35,6.36,6.37,6.38,6.39,6.4,6.41,6.42,6.43,6.44,6.45,6.46,6.47,6.48,6.49,6.5,6.51,6.52,6.53,6.54,6.55,6.56,6.57,6.58,6.59,6.6,6.61,6.62,6.63,6.64,6.65,6.66,6.67,6.68,6.69,6.7,6.71,6.72,6.73,6.74,6.75,6.76,6.77,6.78,6.79,6.8,6.81,6.82,6.83,6.84,6.85,6.86,6.87,6.88,6.89,6.9,6.91,6.92,6.93,6.94,6.95,6.96,6.97,6.98,6.99,7,7.01,7.02,7.03,7.04,7.05,7.06,7.07,7.08,7.09,7.1,7.11,7.12,7.13,7.14,7.15,7.16,7.17,7.18,7.19,7.2,7.21,7.22,7.23,7.24,7.25,7.26,7.27,7.28,7.29,7.3,7.31,7.32,7.33,7.34,7.35,7.36,7.37,7.38,7.39,7.4,7.41,7.42,7.43,7.44,7.45,7.46,7.47,7.48,7.49,7.5,7.51,7.52,7.53,7.54,7.55,7.56,7.57,7.58,7.59,7.6,7.61,7.62,7.63,7.64,7.65,7.66,7.67,7.68,7.69,7.7,7.71,7.72,7.73,7.74,7.75,7.76,7.77,7.78,7.79,7.8,7.81,7.82,7.83,7.84,7.85,7.86,7.87,7.88,7.89,7.9,7.91,7.92,7.93,7.94,7.95,7.96,7.97,7.98,7.99,8,8.01,8.02,8.03,8.04,8.05,8.06,8.07,8.08,8.09,8.1,8.11,8.12,8.13,8.14,8.15,8.16,8.17,8.18,8.19,8.2,8.21,8.22,8.23,8.24,8.25,8.26,8.27,8.28,8.29,8.3,8.31,8.32,8.33,8.34,8.35,8.36,8.37,8.38,8.39,8.4,8.41,8.42,8.43,8.44,8.45,8.46,8.47,8.48,8.49,8.5,8.51,8.52,8.53,8.54,8.55,8.56,8.57,8.58,8.59,8.6,8.61,8.62,8.63,8.64,8.65,8.66,8.67,8.68,8.69,8.7,8.71,8.72,8.73,8.74,8.75,8.76,8.77,8.78,8.79,8.8,8.81,8.82,8.83,8.84,8.85,8.86,8.87,8.88,8.89,8.9,8.91,8.92,8.93,8.94,8.95,8.96,8.97,8.98,8.99,9,9.01,9.02,9.03,9.04,9.05,9.06,9.07,9.08,9.09,9.1,9.11,9.12,9.13,9.14,9.15,9.16,9.17,9.18,9.19,9.2,9.21,9.22,9.23,9.24,9.25,9.26,9.27,9.28,9.29,9.3,9.31,9.32,9.33,9.34,9.35,9.36,9.37,9.38,9.39,9.4,9.41,9.42,9.43,9.44,9.45,9.46,9.47,9.48,9.49,9.5,9.51,9.52,9.53,9.54,9.55,9.56,9.57,9.58,9.59,9.6,9.61,9.62,9.63,9.64,9.65,9.66,9.67,9.68,9.69,9.7,9.71,9.72,9.73,9.74,9.75,9.76,9.77,9.78,9.79,9.8,9.81,9.82,9.83,9.84,9.85,9.86,9.87,9.88,9.89,9.9,9.91,9.92,9.93,9.94,9.95,9.96,9.97,9.98,9.99,10],"info":[0,0.01,0.02,0.03,0.04,0.05,0.06,0.07,0.08,0.09,0.1,0.11,0.12,0.13,0.14,0.15,0.16,0.17,0.18,0.19,0.2,0.21,0.22,0.23,0.24,0.25,0.26,0.27,0.28,0.29,0.3,0.31,0.32,0.33,0.34,0.35,0.36,0.37,0.38,0.39,0.4,0.41,0.42,0.43,0.44,0.45,0.46,0.47,0.48,0.49,0.5,0.51,0.52,0.53,0.54,0.55,0.56,0.57,0.58,0.59,0.6,0.61,0.62,0.63,0.64,0.65,0.66,0.67,0.68,0.69,0.7,0.71,0.72,0.73,0.74,0.75,0.76,0.77,0.78,0.79,0.8,0.81,0.82,0.83,0.84,0.85,0.86,0.87,0.88,0.89,0.9,0.91,0.92,0.93,0.94,0.95,0.96,0.97,0.98,0.99,1,1.01,1.02,1.03,1.04,1.05,1.06,1.07,1.08,1.09,1.1,1.11,1.12,1.13,1.14,1.15,1.16,1.17,1.18,1.19,1.2,1.21,1.22,1.23,1.24,1.25,1.26,1.27,1.28,1.29,1.3,1.31,1.32,1.33,1.34,1.35,1.36,1.37,1.38,1.39,1.4,1.41,1.42,1.43,1.44,1.45,1.46,1.47,1.48,1.49,1.5,1.51,1.52,1.53,1.54,1.55,1.56,1.57,1.58,1.59,1.6,1.61,1.62,1.63,1.64,1.65,1.66,1.67,1.68,1.69,1.7,1.71,1.72,1.73,1.74,1.75,1.76,1.77,1.78,1.79,1.8,1.81,1.82,1.83,1.84,1.85,1.86,1.87,1.88,1.89,1.9,1.91,1.92,1.93,1.94,1.95,1.96,1.97,1.98,1.99,2,2.01,2.02,2.03,2.04,2.05,2.06,2.07,2.08,2.09,2.1,2.11,2.12,2.13,2.14,2.15,2.16,2.17,2.18,2.19,2.2,2.21,2.22,2.23,2.24,2.25,2.26,2.27,2.28,2.29,2.3,2.31,2.32,2.33,2.34,2.35,2.36,2.37,2.38,2.39,2.4,2.41,2.42,2.43,2.44,2.45,2.46,2.47,2.48,2.49,2.5,2.51,2.52,2.53,2.54,2.55,2.56,2.57,2.58,2.59,2.6,2.61,2.62,2.63,2.64,2.65,2.66,2.67,2.68,2.69,2.7,2.71,2.72,2.73,2.74,2.75,2.76,2.77,2.78,2.79,2.8,2.81,2.82,2.83,2.84,2.85,2.86,2.87,2.88,2.89,2.9,2.91,2.92,2.93,2.94,2.95,2.96,2.97,2.98,2.99,3,3.01,3.02,3.03,3.04,3.05,3.06,3.07,3.08,3.09,3.1,3.11,3.12,3.13,3.14,3.15,3.16,3.17,3.18,3.19,3.2,3.21,3.22,3.23,3.24,3.25,3.26,3.27,3.28,3.29,3.3,3.31,3.32,3.33,3.34,3.35,3.36,3.37,3.38,3.39,3.4,3.41,3.42,3.43,3.44,3.45,3.46,3.47,3.48,3.49,3.5,3.51,3.52,3.53,3.54,3.55,3.56,3.57,3.58,3.59,3.6,3.61,3.62,3.63,3.64,3.65,3.66,3.67,3.68,3.69,3.7,3.71,3.72,3.73,3.74,3.75,3.76,3.77,3.78,3.79,3.8,3.81,3.82,3.83,3.84,3.85,3.86,3.87,3.88,3.89,3.9,3.91,3.92,3.93,3.94,3.95,3.96,3.97,3.98,3.99,4,4.01,4.02,4.03,4.04,4.05,4.06,4.07,4.08,4.09,4.1,4.11,4.12,4.13,4.14,4.15,4.16,4.17,4.18,4.19,4.2,4.21,4.22,4.23,4.24,4.25,4.26,4.27,4.28,4.29,4.3,4.31,4.32,4.33,4.34,4.35,4.36,4.37,4.38,4.39,4.4,4.41,4.42,4.43,4.44,4.45,4.46,4.47,4.48,4.49,4.5,4.51,4.52,4.53,4.54,4.55,4.56,4.57,4.58,4.59,4.6,4.61,4.62,4.63,4.64,4.65,4.66,4.67,4.68,4.69,4.7,4.71,4.72,4.73,4.74,4.75,4.76,4.77,4.78,4.79,4.8,4.81,4.82,4.83,4.84,4.85,4.86,4.87,4.88,4.89,4.9,4.91,4.92,4.93,4.94,4.95,4.96,4.97,4.98,4.99,5,5.01,5.02,5.03,5.04,5.05,5.06,5.07,5.08,5.09,5.1,5.11,5.12,5.13,5.14,5.15,5.16,5.17,5.18,5.19,5.2,5.21,5.22,5.23,5.24,5.25,5.26,5.27,5.28,5.29,5.3,5.31,5.32,5.33,5.34,5.35,5.36,5.37,5.38,5.39,5.4,5.41,5.42,5.43,5.44,5.45,5.46,5.47,5.48,5.49,5.5,5.51,5.52,5.53,5.54,5.55,5.56,5.57,5.58,5.59,5.6,5.61,5.62,5.63,5.64,5.65,5.66,5.67,5.68,5.69,5.7,5.71,5.72,5.73,5.74,5.75,5.76,5.77,5.78,5.79,5.8,5.81,5.82,5.83,5.84,5.85,5.86,5.87,5.88,5.89,5.9,5.91,5.92,5.93,5.94,5.95,5.96,5.97,5.98,5.99,6,6.01,6.02,6.03,6.04,6.05,6.06,6.07,6.08,6.09,6.1,6.11,6.12,6.13,6.14,6.15,6.16,6.17,6.18,6.19,6.2,6.21,6.22,6.23,6.24,6.25,6.26,6.27,6.28,6.29,6.3,6.31,6.32,6.33,6.34,6.35,6.36,6.37,6.38,6.39,6.4,6.41,6.42,6.43,6.44,6.45,6.46,6.47,6.48,6.49,6.5,6.51,6.52,6.53,6.54,6.55,6.56,6.57,6.58,6.59,6.6,6.61,6.62,6.63,6.64,6.65,6.66,6.67,6.68,6.69,6.7,6.71,6.72,6.73,6.74,6.75,6.76,6.77,6.78,6.79,6.8,6.81,6.82,6.83,6.84,6.85,6.86,6.87,6.88,6.89,6.9,6.91,6.92,6.93,6.94,6.95,6.96,6.97,6.98,6.99,7,7.01,7.02,7.03,7.04,7.05,7.06,7.07,7.08,7.09,7.1,7.11,7.12,7.13,7.14,7.15,7.16,7.17,7.18,7.19,7.2,7.21,7.22,7.23,7.24,7.25,7.26,7.27,7.28,7.29,7.3,7.31,7.32,7.33,7.34,7.35,7.36,7.37,7.38,7.39,7.4,7.41,7.42,7.43,7.44,7.45,7.46,7.47,7.48,7.49,7.5,7.51,7.52,7.53,7.54,7.55,7.56,7.57,7.58,7.59,7.6,7.61,7.62,7.63,7.64,7.65,7.66,7.67,7.68,7.69,7.7,7.71,7.72,7.73,7.74,7.75,7.76,7.77,7.78,7.79,7.8,7.81,7.82,7.83,7.84,7.85,7.86,7.87,7.88,7.89,7.9,7.91,7.92,7.93,7.94,7.95,7.96,7.97,7.98,7.99,8,8.01,8.02,8.03,8.04,8.05,8.06,8.07,8.08,8.09,8.1,8.11,8.12,8.13,8.14,8.15,8.16,8.17,8.18,8.19,8.2,8.21,8.22,8.23,8.24,8.25,8.26,8.27,8.28,8.29,8.3,8.31,8.32,8.33,8.34,8.35,8.36,8.37,8.38,8.39,8.4,8.41,8.42,8.43,8.44,8.45,8.46,8.47,8.48,8.49,8.5,8.51,8.52,8.53,8.54,8.55,8.56,8.57,8.58,8.59,8.6,8.61,8.62,8.63,8.64,8.65,8.66,8.67,8.68,8.69,8.7,8.71,8.72,8.73,8.74,8.75,8.76,8.77,8.78,8.79,8.8,8.81,8.82,8.83,8.84,8.85,8.86,8.87,8.88,8.89,8.9,8.91,8.92,8.93,8.94,8.95,8.96,8.97,8.98,8.99,9,9.01,9.02,9.03,9.04,9.05,9.06,9.07,9.08,9.09,9.1,9.11,9.12,9.13,9.14,9.15,9.16,9.17,9.18,9.19,9.2,9.21,9.22,9.23,9.24,9.25,9.26,9.27,9.28,9.29,9.3,9.31,9.32,9.33,9.34,9.35,9.36,9.37,9.38,9.39,9.4,9.41,9.42,9.43,9.44,9.45,9.46,9.47,9.48,9.49,9.5,9.51,9.52,9.53,9.54,9.55,9.56,9.57,9.58,9.59,9.6,9.61,9.62,9.63,9.64,9.65,9.66,9.67,9.68,9.69,9.7,9.71,9.72,9.73,9.74,9.75,9.76,9.77,9.78,9.79,9.8,9.81,9.82,9.83,9.84,9.85,9.86,9.87,9.88,9.89,9.9,9.91,9.92,9.93,9.94,9.95,9.96,9.97,9.98,9.99,10],"columnDefs":[{"className":"dt-right","targets":[2,3]},{"orderable":false,"targets":0}],"order":[],"autoWidth":false,"orderClasses":false}},"evals":[],"jsHooks":[]}</script>
+<div id="htmlwidget-b19596f856ef12ccc5d9" style="width:100%;height:auto;" class="datatables html-widget"></div>
+<script type="application/json" data-for="htmlwidget-b19596f856ef12ccc5d9">{"x":{"filter":"none","data":[["1","2","3","4","5","6","7","8","9","10","11","12","13","14","15","16","17","18","19","20","21","22","23","24","25","26","27","28","29","30"],["ecstasy","ecstasy","ecstasy","ecstasy","ecstasy","ecstasy","ecstasy","ecstasy","ecstasy","ecstasy","alcohol","alcohol","alcohol","alcohol","alcohol","alcohol","alcohol","alcohol","alcohol","alcohol","control","control","control","control","control","control","control","control","control","control"],[22,22,24,25,21,24,21,23,21,23,27,23,24,24,21,26,23,24,23,24,23,22,21,22,22,25,22,22,22,23],[9.5,9.5,23.5,27.5,3,23.5,3,17,3,17,30,17,23.5,23.5,3,29,17,23.5,17,23.5,17,9.5,3,9.5,9.5,27.5,9.5,9.5,9.5,17]],"container":"<table class=\"display\">\n  <thead>\n    <tr>\n      <th> <\/th>\n      <th>factor<\/th>\n      <th>depres<\/th>\n      <th>ranks<\/th>\n    <\/tr>\n  <\/thead>\n<\/table>","options":{"iDisplayLength":7,"searching":false,"scrollY":415,"paging":[0,0.01,0.02,0.03,0.04,0.05,0.06,0.07,0.08,0.09,0.1,0.11,0.12,0.13,0.14,0.15,0.16,0.17,0.18,0.19,0.2,0.21,0.22,0.23,0.24,0.25,0.26,0.27,0.28,0.29,0.3,0.31,0.32,0.33,0.34,0.35,0.36,0.37,0.38,0.39,0.4,0.41,0.42,0.43,0.44,0.45,0.46,0.47,0.48,0.49,0.5,0.51,0.52,0.53,0.54,0.55,0.56,0.57,0.58,0.59,0.6,0.61,0.62,0.63,0.64,0.65,0.66,0.67,0.68,0.69,0.7,0.71,0.72,0.73,0.74,0.75,0.76,0.77,0.78,0.79,0.8,0.81,0.82,0.83,0.84,0.85,0.86,0.87,0.88,0.89,0.9,0.91,0.92,0.93,0.94,0.95,0.96,0.97,0.98,0.99,1,1.01,1.02,1.03,1.04,1.05,1.06,1.07,1.08,1.09,1.1,1.11,1.12,1.13,1.14,1.15,1.16,1.17,1.18,1.19,1.2,1.21,1.22,1.23,1.24,1.25,1.26,1.27,1.28,1.29,1.3,1.31,1.32,1.33,1.34,1.35,1.36,1.37,1.38,1.39,1.4,1.41,1.42,1.43,1.44,1.45,1.46,1.47,1.48,1.49,1.5,1.51,1.52,1.53,1.54,1.55,1.56,1.57,1.58,1.59,1.6,1.61,1.62,1.63,1.64,1.65,1.66,1.67,1.68,1.69,1.7,1.71,1.72,1.73,1.74,1.75,1.76,1.77,1.78,1.79,1.8,1.81,1.82,1.83,1.84,1.85,1.86,1.87,1.88,1.89,1.9,1.91,1.92,1.93,1.94,1.95,1.96,1.97,1.98,1.99,2,2.01,2.02,2.03,2.04,2.05,2.06,2.07,2.08,2.09,2.1,2.11,2.12,2.13,2.14,2.15,2.16,2.17,2.18,2.19,2.2,2.21,2.22,2.23,2.24,2.25,2.26,2.27,2.28,2.29,2.3,2.31,2.32,2.33,2.34,2.35,2.36,2.37,2.38,2.39,2.4,2.41,2.42,2.43,2.44,2.45,2.46,2.47,2.48,2.49,2.5,2.51,2.52,2.53,2.54,2.55,2.56,2.57,2.58,2.59,2.6,2.61,2.62,2.63,2.64,2.65,2.66,2.67,2.68,2.69,2.7,2.71,2.72,2.73,2.74,2.75,2.76,2.77,2.78,2.79,2.8,2.81,2.82,2.83,2.84,2.85,2.86,2.87,2.88,2.89,2.9,2.91,2.92,2.93,2.94,2.95,2.96,2.97,2.98,2.99,3,3.01,3.02,3.03,3.04,3.05,3.06,3.07,3.08,3.09,3.1,3.11,3.12,3.13,3.14,3.15,3.16,3.17,3.18,3.19,3.2,3.21,3.22,3.23,3.24,3.25,3.26,3.27,3.28,3.29,3.3,3.31,3.32,3.33,3.34,3.35,3.36,3.37,3.38,3.39,3.4,3.41,3.42,3.43,3.44,3.45,3.46,3.47,3.48,3.49,3.5,3.51,3.52,3.53,3.54,3.55,3.56,3.57,3.58,3.59,3.6,3.61,3.62,3.63,3.64,3.65,3.66,3.67,3.68,3.69,3.7,3.71,3.72,3.73,3.74,3.75,3.76,3.77,3.78,3.79,3.8,3.81,3.82,3.83,3.84,3.85,3.86,3.87,3.88,3.89,3.9,3.91,3.92,3.93,3.94,3.95,3.96,3.97,3.98,3.99,4,4.01,4.02,4.03,4.04,4.05,4.06,4.07,4.08,4.09,4.1,4.11,4.12,4.13,4.14,4.15,4.16,4.17,4.18,4.19,4.2,4.21,4.22,4.23,4.24,4.25,4.26,4.27,4.28,4.29,4.3,4.31,4.32,4.33,4.34,4.35,4.36,4.37,4.38,4.39,4.4,4.41,4.42,4.43,4.44,4.45,4.46,4.47,4.48,4.49,4.5,4.51,4.52,4.53,4.54,4.55,4.56,4.57,4.58,4.59,4.6,4.61,4.62,4.63,4.64,4.65,4.66,4.67,4.68,4.69,4.7,4.71,4.72,4.73,4.74,4.75,4.76,4.77,4.78,4.79,4.8,4.81,4.82,4.83,4.84,4.85,4.86,4.87,4.88,4.89,4.9,4.91,4.92,4.93,4.94,4.95,4.96,4.97,4.98,4.99,5,5.01,5.02,5.03,5.04,5.05,5.06,5.07,5.08,5.09,5.1,5.11,5.12,5.13,5.14,5.15,5.16,5.17,5.18,5.19,5.2,5.21,5.22,5.23,5.24,5.25,5.26,5.27,5.28,5.29,5.3,5.31,5.32,5.33,5.34,5.35,5.36,5.37,5.38,5.39,5.4,5.41,5.42,5.43,5.44,5.45,5.46,5.47,5.48,5.49,5.5,5.51,5.52,5.53,5.54,5.55,5.56,5.57,5.58,5.59,5.6,5.61,5.62,5.63,5.64,5.65,5.66,5.67,5.68,5.69,5.7,5.71,5.72,5.73,5.74,5.75,5.76,5.77,5.78,5.79,5.8,5.81,5.82,5.83,5.84,5.85,5.86,5.87,5.88,5.89,5.9,5.91,5.92,5.93,5.94,5.95,5.96,5.97,5.98,5.99,6,6.01,6.02,6.03,6.04,6.05,6.06,6.07,6.08,6.09,6.1,6.11,6.12,6.13,6.14,6.15,6.16,6.17,6.18,6.19,6.2,6.21,6.22,6.23,6.24,6.25,6.26,6.27,6.28,6.29,6.3,6.31,6.32,6.33,6.34,6.35,6.36,6.37,6.38,6.39,6.4,6.41,6.42,6.43,6.44,6.45,6.46,6.47,6.48,6.49,6.5,6.51,6.52,6.53,6.54,6.55,6.56,6.57,6.58,6.59,6.6,6.61,6.62,6.63,6.64,6.65,6.66,6.67,6.68,6.69,6.7,6.71,6.72,6.73,6.74,6.75,6.76,6.77,6.78,6.79,6.8,6.81,6.82,6.83,6.84,6.85,6.86,6.87,6.88,6.89,6.9,6.91,6.92,6.93,6.94,6.95,6.96,6.97,6.98,6.99,7,7.01,7.02,7.03,7.04,7.05,7.06,7.07,7.08,7.09,7.1,7.11,7.12,7.13,7.14,7.15,7.16,7.17,7.18,7.19,7.2,7.21,7.22,7.23,7.24,7.25,7.26,7.27,7.28,7.29,7.3,7.31,7.32,7.33,7.34,7.35,7.36,7.37,7.38,7.39,7.4,7.41,7.42,7.43,7.44,7.45,7.46,7.47,7.48,7.49,7.5,7.51,7.52,7.53,7.54,7.55,7.56,7.57,7.58,7.59,7.6,7.61,7.62,7.63,7.64,7.65,7.66,7.67,7.68,7.69,7.7,7.71,7.72,7.73,7.74,7.75,7.76,7.77,7.78,7.79,7.8,7.81,7.82,7.83,7.84,7.85,7.86,7.87,7.88,7.89,7.9,7.91,7.92,7.93,7.94,7.95,7.96,7.97,7.98,7.99,8,8.01,8.02,8.03,8.04,8.05,8.06,8.07,8.08,8.09,8.1,8.11,8.12,8.13,8.14,8.15,8.16,8.17,8.18,8.19,8.2,8.21,8.22,8.23,8.24,8.25,8.26,8.27,8.28,8.29,8.3,8.31,8.32,8.33,8.34,8.35,8.36,8.37,8.38,8.39,8.4,8.41,8.42,8.43,8.44,8.45,8.46,8.47,8.48,8.49,8.5,8.51,8.52,8.53,8.54,8.55,8.56,8.57,8.58,8.59,8.6,8.61,8.62,8.63,8.64,8.65,8.66,8.67,8.68,8.69,8.7,8.71,8.72,8.73,8.74,8.75,8.76,8.77,8.78,8.79,8.8,8.81,8.82,8.83,8.84,8.85,8.86,8.87,8.88,8.89,8.9,8.91,8.92,8.93,8.94,8.95,8.96,8.97,8.98,8.99,9,9.01,9.02,9.03,9.04,9.05,9.06,9.07,9.08,9.09,9.1,9.11,9.12,9.13,9.14,9.15,9.16,9.17,9.18,9.19,9.2,9.21,9.22,9.23,9.24,9.25,9.26,9.27,9.28,9.29,9.3,9.31,9.32,9.33,9.34,9.35,9.36,9.37,9.38,9.39,9.4,9.41,9.42,9.43,9.44,9.45,9.46,9.47,9.48,9.49,9.5,9.51,9.52,9.53,9.54,9.55,9.56,9.57,9.58,9.59,9.6,9.61,9.62,9.63,9.64,9.65,9.66,9.67,9.68,9.69,9.7,9.71,9.72,9.73,9.74,9.75,9.76,9.77,9.78,9.79,9.8,9.81,9.82,9.83,9.84,9.85,9.86,9.87,9.88,9.89,9.9,9.91,9.92,9.93,9.94,9.95,9.96,9.97,9.98,9.99,10],"info":[0,0.01,0.02,0.03,0.04,0.05,0.06,0.07,0.08,0.09,0.1,0.11,0.12,0.13,0.14,0.15,0.16,0.17,0.18,0.19,0.2,0.21,0.22,0.23,0.24,0.25,0.26,0.27,0.28,0.29,0.3,0.31,0.32,0.33,0.34,0.35,0.36,0.37,0.38,0.39,0.4,0.41,0.42,0.43,0.44,0.45,0.46,0.47,0.48,0.49,0.5,0.51,0.52,0.53,0.54,0.55,0.56,0.57,0.58,0.59,0.6,0.61,0.62,0.63,0.64,0.65,0.66,0.67,0.68,0.69,0.7,0.71,0.72,0.73,0.74,0.75,0.76,0.77,0.78,0.79,0.8,0.81,0.82,0.83,0.84,0.85,0.86,0.87,0.88,0.89,0.9,0.91,0.92,0.93,0.94,0.95,0.96,0.97,0.98,0.99,1,1.01,1.02,1.03,1.04,1.05,1.06,1.07,1.08,1.09,1.1,1.11,1.12,1.13,1.14,1.15,1.16,1.17,1.18,1.19,1.2,1.21,1.22,1.23,1.24,1.25,1.26,1.27,1.28,1.29,1.3,1.31,1.32,1.33,1.34,1.35,1.36,1.37,1.38,1.39,1.4,1.41,1.42,1.43,1.44,1.45,1.46,1.47,1.48,1.49,1.5,1.51,1.52,1.53,1.54,1.55,1.56,1.57,1.58,1.59,1.6,1.61,1.62,1.63,1.64,1.65,1.66,1.67,1.68,1.69,1.7,1.71,1.72,1.73,1.74,1.75,1.76,1.77,1.78,1.79,1.8,1.81,1.82,1.83,1.84,1.85,1.86,1.87,1.88,1.89,1.9,1.91,1.92,1.93,1.94,1.95,1.96,1.97,1.98,1.99,2,2.01,2.02,2.03,2.04,2.05,2.06,2.07,2.08,2.09,2.1,2.11,2.12,2.13,2.14,2.15,2.16,2.17,2.18,2.19,2.2,2.21,2.22,2.23,2.24,2.25,2.26,2.27,2.28,2.29,2.3,2.31,2.32,2.33,2.34,2.35,2.36,2.37,2.38,2.39,2.4,2.41,2.42,2.43,2.44,2.45,2.46,2.47,2.48,2.49,2.5,2.51,2.52,2.53,2.54,2.55,2.56,2.57,2.58,2.59,2.6,2.61,2.62,2.63,2.64,2.65,2.66,2.67,2.68,2.69,2.7,2.71,2.72,2.73,2.74,2.75,2.76,2.77,2.78,2.79,2.8,2.81,2.82,2.83,2.84,2.85,2.86,2.87,2.88,2.89,2.9,2.91,2.92,2.93,2.94,2.95,2.96,2.97,2.98,2.99,3,3.01,3.02,3.03,3.04,3.05,3.06,3.07,3.08,3.09,3.1,3.11,3.12,3.13,3.14,3.15,3.16,3.17,3.18,3.19,3.2,3.21,3.22,3.23,3.24,3.25,3.26,3.27,3.28,3.29,3.3,3.31,3.32,3.33,3.34,3.35,3.36,3.37,3.38,3.39,3.4,3.41,3.42,3.43,3.44,3.45,3.46,3.47,3.48,3.49,3.5,3.51,3.52,3.53,3.54,3.55,3.56,3.57,3.58,3.59,3.6,3.61,3.62,3.63,3.64,3.65,3.66,3.67,3.68,3.69,3.7,3.71,3.72,3.73,3.74,3.75,3.76,3.77,3.78,3.79,3.8,3.81,3.82,3.83,3.84,3.85,3.86,3.87,3.88,3.89,3.9,3.91,3.92,3.93,3.94,3.95,3.96,3.97,3.98,3.99,4,4.01,4.02,4.03,4.04,4.05,4.06,4.07,4.08,4.09,4.1,4.11,4.12,4.13,4.14,4.15,4.16,4.17,4.18,4.19,4.2,4.21,4.22,4.23,4.24,4.25,4.26,4.27,4.28,4.29,4.3,4.31,4.32,4.33,4.34,4.35,4.36,4.37,4.38,4.39,4.4,4.41,4.42,4.43,4.44,4.45,4.46,4.47,4.48,4.49,4.5,4.51,4.52,4.53,4.54,4.55,4.56,4.57,4.58,4.59,4.6,4.61,4.62,4.63,4.64,4.65,4.66,4.67,4.68,4.69,4.7,4.71,4.72,4.73,4.74,4.75,4.76,4.77,4.78,4.79,4.8,4.81,4.82,4.83,4.84,4.85,4.86,4.87,4.88,4.89,4.9,4.91,4.92,4.93,4.94,4.95,4.96,4.97,4.98,4.99,5,5.01,5.02,5.03,5.04,5.05,5.06,5.07,5.08,5.09,5.1,5.11,5.12,5.13,5.14,5.15,5.16,5.17,5.18,5.19,5.2,5.21,5.22,5.23,5.24,5.25,5.26,5.27,5.28,5.29,5.3,5.31,5.32,5.33,5.34,5.35,5.36,5.37,5.38,5.39,5.4,5.41,5.42,5.43,5.44,5.45,5.46,5.47,5.48,5.49,5.5,5.51,5.52,5.53,5.54,5.55,5.56,5.57,5.58,5.59,5.6,5.61,5.62,5.63,5.64,5.65,5.66,5.67,5.68,5.69,5.7,5.71,5.72,5.73,5.74,5.75,5.76,5.77,5.78,5.79,5.8,5.81,5.82,5.83,5.84,5.85,5.86,5.87,5.88,5.89,5.9,5.91,5.92,5.93,5.94,5.95,5.96,5.97,5.98,5.99,6,6.01,6.02,6.03,6.04,6.05,6.06,6.07,6.08,6.09,6.1,6.11,6.12,6.13,6.14,6.15,6.16,6.17,6.18,6.19,6.2,6.21,6.22,6.23,6.24,6.25,6.26,6.27,6.28,6.29,6.3,6.31,6.32,6.33,6.34,6.35,6.36,6.37,6.38,6.39,6.4,6.41,6.42,6.43,6.44,6.45,6.46,6.47,6.48,6.49,6.5,6.51,6.52,6.53,6.54,6.55,6.56,6.57,6.58,6.59,6.6,6.61,6.62,6.63,6.64,6.65,6.66,6.67,6.68,6.69,6.7,6.71,6.72,6.73,6.74,6.75,6.76,6.77,6.78,6.79,6.8,6.81,6.82,6.83,6.84,6.85,6.86,6.87,6.88,6.89,6.9,6.91,6.92,6.93,6.94,6.95,6.96,6.97,6.98,6.99,7,7.01,7.02,7.03,7.04,7.05,7.06,7.07,7.08,7.09,7.1,7.11,7.12,7.13,7.14,7.15,7.16,7.17,7.18,7.19,7.2,7.21,7.22,7.23,7.24,7.25,7.26,7.27,7.28,7.29,7.3,7.31,7.32,7.33,7.34,7.35,7.36,7.37,7.38,7.39,7.4,7.41,7.42,7.43,7.44,7.45,7.46,7.47,7.48,7.49,7.5,7.51,7.52,7.53,7.54,7.55,7.56,7.57,7.58,7.59,7.6,7.61,7.62,7.63,7.64,7.65,7.66,7.67,7.68,7.69,7.7,7.71,7.72,7.73,7.74,7.75,7.76,7.77,7.78,7.79,7.8,7.81,7.82,7.83,7.84,7.85,7.86,7.87,7.88,7.89,7.9,7.91,7.92,7.93,7.94,7.95,7.96,7.97,7.98,7.99,8,8.01,8.02,8.03,8.04,8.05,8.06,8.07,8.08,8.09,8.1,8.11,8.12,8.13,8.14,8.15,8.16,8.17,8.18,8.19,8.2,8.21,8.22,8.23,8.24,8.25,8.26,8.27,8.28,8.29,8.3,8.31,8.32,8.33,8.34,8.35,8.36,8.37,8.38,8.39,8.4,8.41,8.42,8.43,8.44,8.45,8.46,8.47,8.48,8.49,8.5,8.51,8.52,8.53,8.54,8.55,8.56,8.57,8.58,8.59,8.6,8.61,8.62,8.63,8.64,8.65,8.66,8.67,8.68,8.69,8.7,8.71,8.72,8.73,8.74,8.75,8.76,8.77,8.78,8.79,8.8,8.81,8.82,8.83,8.84,8.85,8.86,8.87,8.88,8.89,8.9,8.91,8.92,8.93,8.94,8.95,8.96,8.97,8.98,8.99,9,9.01,9.02,9.03,9.04,9.05,9.06,9.07,9.08,9.09,9.1,9.11,9.12,9.13,9.14,9.15,9.16,9.17,9.18,9.19,9.2,9.21,9.22,9.23,9.24,9.25,9.26,9.27,9.28,9.29,9.3,9.31,9.32,9.33,9.34,9.35,9.36,9.37,9.38,9.39,9.4,9.41,9.42,9.43,9.44,9.45,9.46,9.47,9.48,9.49,9.5,9.51,9.52,9.53,9.54,9.55,9.56,9.57,9.58,9.59,9.6,9.61,9.62,9.63,9.64,9.65,9.66,9.67,9.68,9.69,9.7,9.71,9.72,9.73,9.74,9.75,9.76,9.77,9.78,9.79,9.8,9.81,9.82,9.83,9.84,9.85,9.86,9.87,9.88,9.89,9.9,9.91,9.92,9.93,9.94,9.95,9.96,9.97,9.98,9.99,10],"columnDefs":[{"className":"dt-right","targets":[2,3]},{"orderable":false,"targets":0}],"order":[],"autoWidth":false,"orderClasses":false}},"evals":[],"jsHooks":[]}</script>
 </div>
 <div id="calculate-h" class="section level2 subsection">
 <h2>Calculate H</h2>
